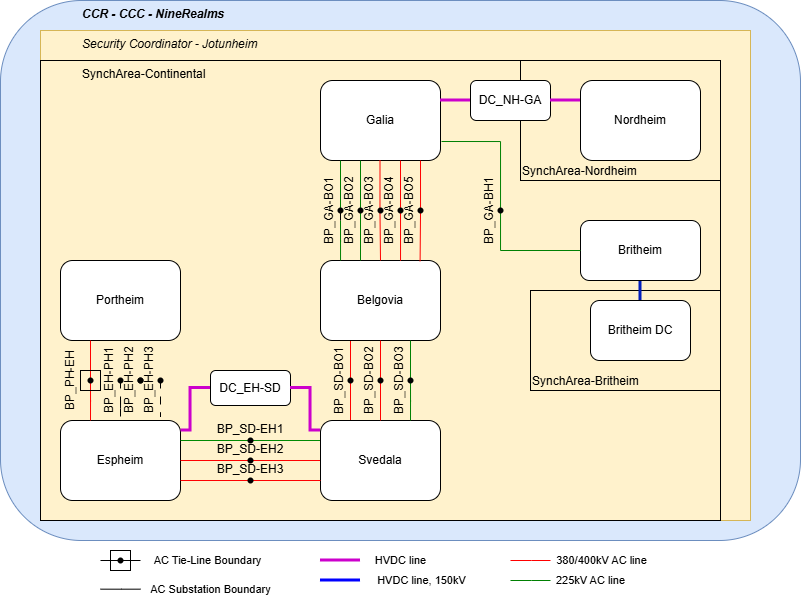
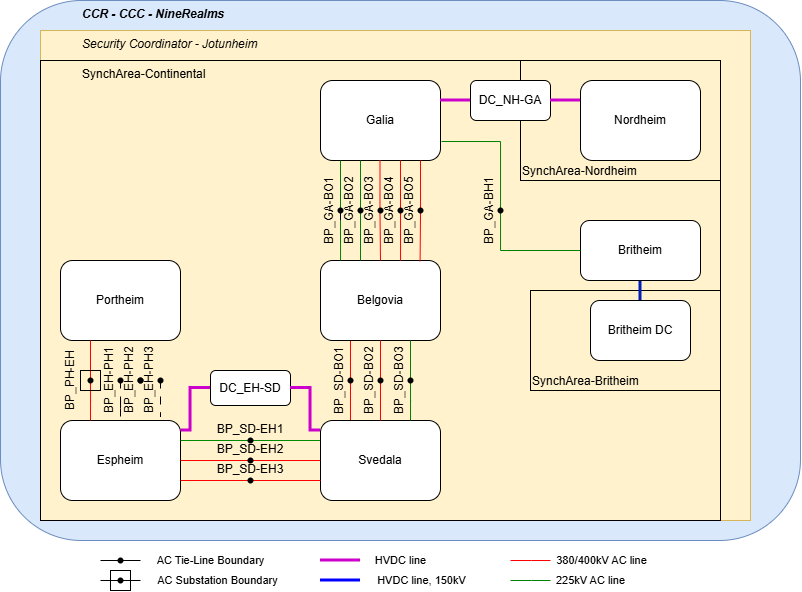
minor fixes, update legend on map1

diff --git a/.github/README.md b/.github/README.md
@@ -65,7 +65,7 @@ The following guidance describes which files to combine when creating import pac
 - The EQ profile from **each** `Instance/<TSO>/Grid/cimxml` folder
 - All files from `Instance/Jotunheim/Grid/cimxml` (SSH, TP, SV)
 - All relevant per-border boundary file(s) from `Instance/boundaryData/Grid/cimxml`
-- `Instance/Grid/CommonAndBoundaryData/Grid_CommonData_CGM-CD.xml`
+- CommonData for Grids: `Instance/Grid/CommonAndBoundaryData/Grid_CommonData_CGM-CD.xml`
 
   additionally the Network Code Profiles:
 
